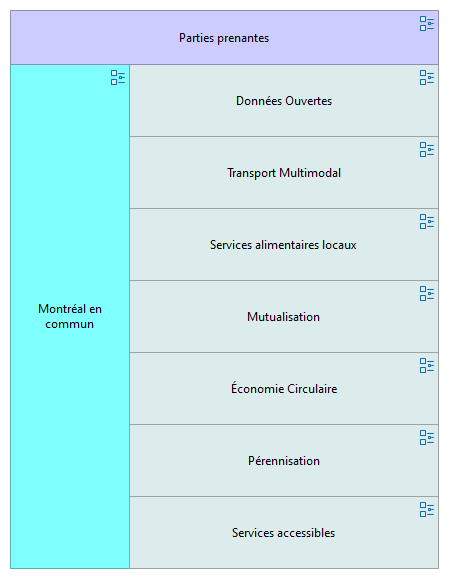
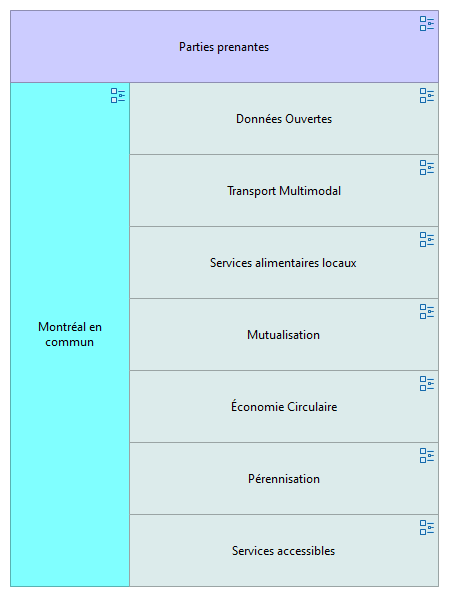
Ordre des vues (#25)
* Ordre des vues

diff --git a/docs/EAPK_4173ED54_61AE_4cf4_ACDA_2CA4AC530EAB/views/id-2da40270ece24f19835f0f388064deb2.html b/docs/EAPK_4173ED54_61AE_4cf4_ACDA_2CA4AC530EAB/views/id-2da40270ece24f19835f0f388064deb2.html
@@ -2,7 +2,7 @@
 <html class="frame" lang="en">
 <head>
 	<meta http-equiv="Content-Type" content="text/html;charset=utf-8">
-	<title>MeC - Contributions des partenaires</title>
+	<title>MeC - Projets des partenaires</title>
 
 	<!-- JQUERY (use 1.x branch to be compatible with IE 6/7/8) -->
 	<script type="text/javascript" src="../../lib/jquery/js/jquery-1.11.2.min.js"></script>
@@ -21,7 +21,7 @@
 
 		<div class="panel-heading root-panel-heading">
             <!-- Name -->
-               <b>MeC - Contributions des partenaires</b>
+               <b>MeC - Projets des partenaires</b>
 
             <!-- If a View with Viewpoint -->
 			   (<span class="i18n-viewpoint-layered"></span>)
@@ -31,25 +31,25 @@
 
 		<div class="panel-body root-panel-body">
 		    <!-- If this is a digram model (has children and no bounds) show the image -->
-			   <img class="diagram" src="../images/id-2da40270ece24f19835f0f388064deb2.png" alt="MeC - Contributions des partenaires" usemap="#id-2da40270ece24f19835f0f388064deb2map"/>
+			   <img class="diagram" src="../images/id-2da40270ece24f19835f0f388064deb2.png" alt="MeC - Projets des partenaires" usemap="#id-2da40270ece24f19835f0f388064deb2map"/>
 			   <map name="id-2da40270ece24f19835f0f388064deb2map">
-				  		<area shape="rect" coords="129,352,439,425" href="../views/EAID_C109A6BB_77F4_49e2_BAE2_6E8FF972EA25.html"  target="view">
+				  		<area shape="rect" coords="129,370,439,443" href="../views/EAID_C109A6BB_77F4_49e2_BAE2_6E8FF972EA25.html"  target="view">
 				      <!-- Other diagram objects -->
-				  		<area shape="rect" coords="10,10,439,65" href="../views/EAID_CA32C500_4B01_4e2a_A0B6_F53ABD2EC83C.html"  target="view">
+				  		<area shape="rect" coords="10,10,439,83" href="../views/EAID_CA32C500_4B01_4e2a_A0B6_F53ABD2EC83C.html"  target="view">
 				      <!-- Other diagram objects -->
-				  		<area shape="rect" coords="129,496,439,569" href="../views/id-0902ec316ce146c392534b7b53b2ff74.html"  target="view">
+				  		<area shape="rect" coords="129,514,439,587" href="../views/id-0902ec316ce146c392534b7b53b2ff74.html"  target="view">
 				      <!-- Other diagram objects -->
-				  		<area shape="rect" coords="129,424,439,497" href="../views/id-9d72f8c6777c4d73a950940d8c644938.html"  target="view">
+				  		<area shape="rect" coords="129,442,439,515" href="../views/id-9d72f8c6777c4d73a950940d8c644938.html"  target="view">
 				      <!-- Other diagram objects -->
-				  		<area shape="rect" coords="129,280,439,353" href="../views/id-a54b7a54ef334cc0b8d562548b8a75c8.html"  target="view">
+				  		<area shape="rect" coords="129,298,439,371" href="../views/id-a54b7a54ef334cc0b8d562548b8a75c8.html"  target="view">
 				      <!-- Other diagram objects -->
-				  		<area shape="rect" coords="129,208,439,281" href="../views/id-30428380278d47a9a253bf1c9d65b548.html"  target="view">
+				  		<area shape="rect" coords="129,226,439,299" href="../views/id-30428380278d47a9a253bf1c9d65b548.html"  target="view">
 				      <!-- Other diagram objects -->
-				  		<area shape="rect" coords="129,136,439,209" href="../views/id-0163b40f37ad488fb33210784569e691.html"  target="view">
+				  		<area shape="rect" coords="129,154,439,227" href="../views/id-0163b40f37ad488fb33210784569e691.html"  target="view">
 				      <!-- Other diagram objects -->
-				  		<area shape="rect" coords="10,64,130,569" href="../views/EAID_52CE04BE_31B3_4de9_90F7_368D4C236CE8.html"  target="view">
+				  		<area shape="rect" coords="10,82,130,587" href="../views/EAID_52CE04BE_31B3_4de9_90F7_368D4C236CE8.html"  target="view">
 				      <!-- Other diagram objects -->
-				  		<area shape="rect" coords="129,64,439,137" href="../views/id-0949972d1f524a3084de68ec21eb2cde.html"  target="view">
+				  		<area shape="rect" coords="129,82,439,155" href="../views/id-0949972d1f524a3084de68ec21eb2cde.html"  target="view">
 				      <!-- Other diagram objects -->
 
 			   </map>

diff --git a/docs/EAPK_4173ED54_61AE_4cf4_ACDA_2CA4AC530EAB/elements/model.html b/docs/EAPK_4173ED54_61AE_4cf4_ACDA_2CA4AC530EAB/elements/model.html
@@ -3183,7 +3183,7 @@ https://montreal.ca/articles/montreal-en-commun-la-ville-comme-laboratoire-15119
 												dataViewsContent.push({viewid:"id-838982c8f7f64bc4adb03ebd5df1256d", contentid:"EAID_6A32D022_2681_4633_9377_98E981B51DE8", contenttype:"ArchimateDiagramModel"});
 
 									dataFoldersContent.push({folderid:"id-ac1f54cf74c34d479e72e2b894f8c9ef", contentid:"id-2da40270ece24f19835f0f388064deb2", contenttype:"ArchimateDiagramModel"});
-										dataViews.push({id:"id-2da40270ece24f19835f0f388064deb2", type:"ArchimateDiagramModel", name:decodeURL("MeC+-+Contributions+des+partenaires"), documentation:decodeURL("Une+vue+d%E2%80%99ensemble+des+diff%C3%A9rentes+contributions+des+partenaires.+Chaque+vue+est+constitu%C3%A9+d%E2%80%99un+diagramme+%C3%A0+couches+qui+repr%C3%A9sente+les+projets+partenaires+en+cours+pour+la+r%C3%A9alisation+d%E2%80%99un+objectif+du+programme.")});
+										dataViews.push({id:"id-2da40270ece24f19835f0f388064deb2", type:"ArchimateDiagramModel", name:decodeURL("MeC+-+Projets+des+partenaires"), documentation:decodeURL("Une+vue+d%E2%80%99ensemble+des+diff%C3%A9rentes+contributions+des+partenaires.+Chaque+vue+est+constitu%C3%A9+d%E2%80%99un+diagramme+%C3%A0+couches+qui+repr%C3%A9sente+les+projets+partenaires+en+cours+pour+la+r%C3%A9alisation+d%E2%80%99un+objectif+du+programme.")});
 												dataViewsContent.push({viewid:"id-2da40270ece24f19835f0f388064deb2", contentid:"id-0949972d1f524a3084de68ec21eb2cde", contenttype:"ArchimateDiagramModel"});
 												dataViewsContent.push({viewid:"id-2da40270ece24f19835f0f388064deb2", contentid:"EAID_52CE04BE_31B3_4de9_90F7_368D4C236CE8", contenttype:"ArchimateDiagramModel"});
 												dataViewsContent.push({viewid:"id-2da40270ece24f19835f0f388064deb2", contentid:"id-0163b40f37ad488fb33210784569e691", contenttype:"ArchimateDiagramModel"});

diff --git a/docs/index.html b/docs/index.html
@@ -1643,7 +1643,7 @@
 									</ul>
 									</li>
 											<li class="tree-element "><a href="EAPK_4173ED54_61AE_4cf4_ACDA_2CA4AC530EAB/views/id-838982c8f7f64bc4adb03ebd5df1256d.html" target="view"> MeC - Objectifs et principes </a></li>
-											<li class="tree-element "><a href="EAPK_4173ED54_61AE_4cf4_ACDA_2CA4AC530EAB/views/id-2da40270ece24f19835f0f388064deb2.html" target="view"> MeC - Contributions des partenaires </a></li>
+											<li class="tree-element "><a href="EAPK_4173ED54_61AE_4cf4_ACDA_2CA4AC530EAB/views/id-2da40270ece24f19835f0f388064deb2.html" target="view"> MeC - Projets des partenaires </a></li>
 
 							</ul>
 						</li>
